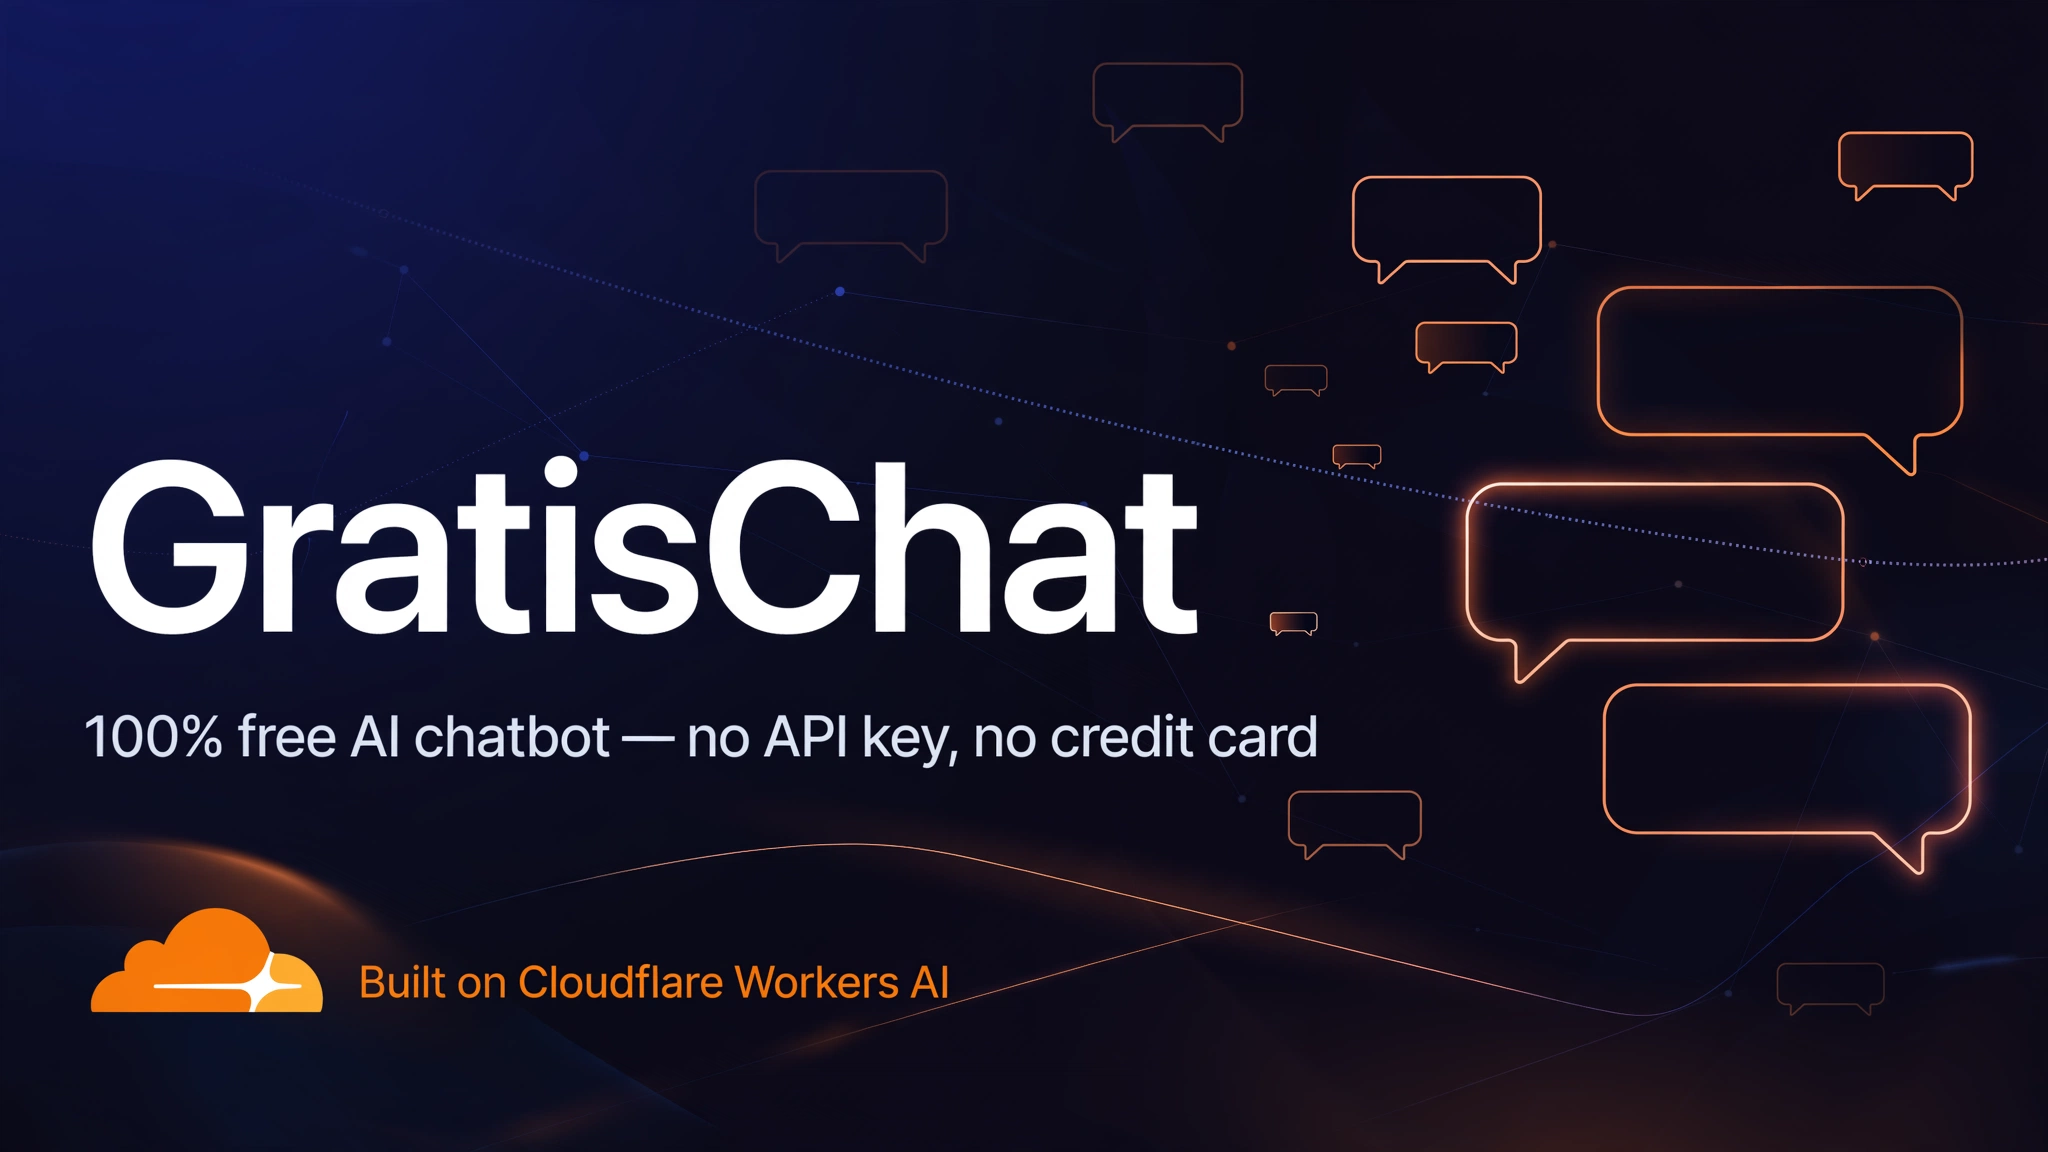
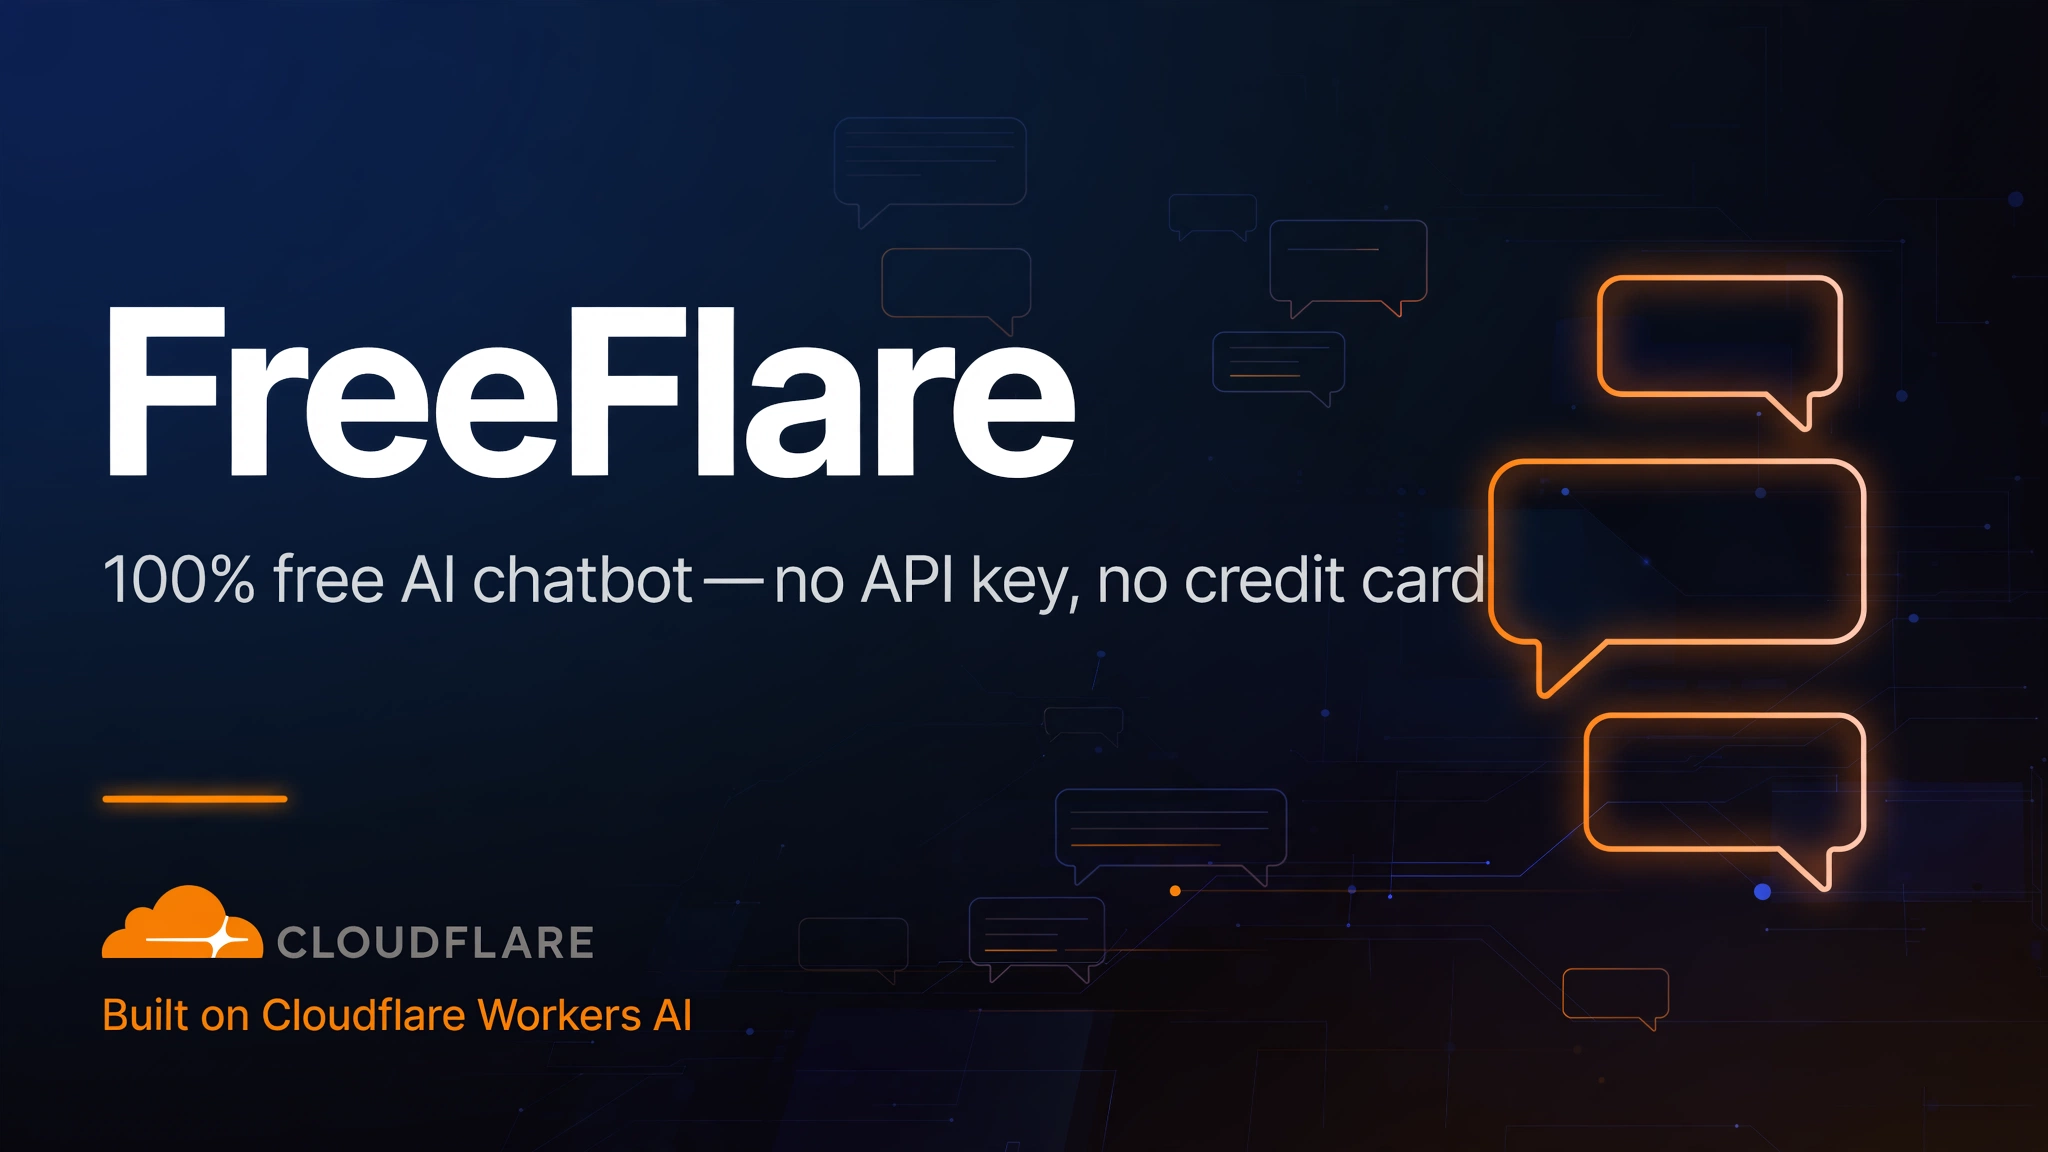
rename to FreeFlare; live badges; add CONTRIBUTING/SECURITY/CHANGELOG

diff --git a/src/worker.js b/src/worker.js
@@ -1,4 +1,4 @@
-// cf-free-chat worker — 100% free chatbot on Cloudflare Workers AI.
+// freeflare worker — 100% free chatbot on Cloudflare Workers AI.
 // No API keys needed: inference via the env.AI binding.
 // Abuse protection: Cache API burst limiter + D1 daily ledger (optional) +
 // global circuit breaker + optional Turnstile (graceful degrade when unset).
@@ -42,7 +42,7 @@ const unb64url = (s) => atob(s.replace(/-/g, "+").replace(/_/g, "/"));
 
 async function mintSession(env, ip) {
   const exp = Date.now() + 24 * 3600 * 1000;
-  const secret = env.TURNSTILE_SECRET || env.SESSION_SECRET || "cf-free-chat-dev";
+  const secret = env.TURNSTILE_SECRET || env.SESSION_SECRET || "freeflare-dev";
   const sig = await hmacSign(secret, `${ip}.${exp}`);
   return b64url(`${exp}.${sig}`);
 }
@@ -50,7 +50,7 @@ async function validSession(env, token, ip) {
   try {
     const [exp, sig] = unb64url(token).split(".");
     if (Date.now() > parseInt(exp, 10)) return false;
-    const secret = env.TURNSTILE_SECRET || env.SESSION_SECRET || "cf-free-chat-dev";
+    const secret = env.TURNSTILE_SECRET || env.SESSION_SECRET || "freeflare-dev";
     return timingEq(sig, await hmacSign(secret, `${ip}.${exp}`));
   } catch { return false; }
 }
@@ -133,7 +133,7 @@ export default {
     // ---- public config for the frontend ----
     if (path === "/api/config" && req.method === "GET") {
       return json({
-        appName: env.APP_NAME || "GratisChat",
+        appName: env.APP_NAME || "FreeFlare",
         models: MODELS,
         defaultModel: env.DEFAULT_MODEL || MODELS[0].id,
         turnstileSiteKey: env.TURNSTILE_SITE_KEY || null,

diff --git a/public/index.html b/public/index.html
@@ -3,7 +3,7 @@
 <head>
 <meta charset="utf-8">
 <meta name="viewport" content="width=device-width, initial-scale=1, viewport-fit=cover">
-<title>GratisChat — AI gratis, tanpa API key</title>
+<title>FreeFlare — AI gratis, tanpa API key</title>
 <meta name="description" content="Chatbot AI gratis 100% di Cloudflare. Tanpa API key, tanpa kartu kredit.">
 <link rel="stylesheet" href="/styles.css">
 </head>

diff --git a/public/app.js b/public/app.js
@@ -1,4 +1,4 @@
-// GratisChat frontend — vanilla JS, no build, no deps (except optional Turnstile).
+// FreeFlare frontend — vanilla JS, no build, no deps (except optional Turnstile).
 "use strict";
 
 const I18N = {

diff --git a/README.id.md b/README.id.md
@@ -1,19 +1,23 @@
-# GratisChat — chatbot AI 100% gratis di Cloudflare
+# FreeFlare — chatbot AI 100% gratis di Cloudflare
 
-![Banner GratisChat](assets/banner.png)
+![Banner FreeFlare](assets/banner.png)
 
 [🇬🇧 English](README.md) · 🇮🇩 **Indonesia**
 
-[![License: MIT](https://img.shields.io/badge/license-MIT-green)](LICENSE)
-[![Cloudflare Workers](https://img.shields.io/badge/Cloudflare-Workers-F68204?logo=cloudflare&logoColor=white)](https://workers.cloudflare.com/)
-[![Node.js](https://img.shields.io/badge/node-%3E%3D18-339933?logo=node.js&logoColor=white)](https://nodejs.org/)
-[![Dependencies](https://img.shields.io/badge/dependencies-0-blue)]()
-[![Workers AI](https://img.shields.io/badge/AI-Workers_AI-8A2BE2)]()
+[![Stars](https://img.shields.io/github/stars/imkofty/freeflare?style=for-the-badge&logo=github&color=20808D)](https://github.com/imkofty/freeflare/stargazers)
+[![Forks](https://img.shields.io/github/forks/imkofty/freeflare?style=for-the-badge&logo=github&color=4DD0E1)](https://github.com/imkofty/freeflare/network/members)
+[![Issues](https://img.shields.io/github/issues/imkofty/freeflare?style=for-the-badge&logo=github&color=FFB454)](https://github.com/imkofty/freeflare/issues)
+[![License: MIT](https://img.shields.io/github/license/imkofty/freeflare?style=for-the-badge&color=3FB950)](LICENSE)
+
+[![Node.js](https://img.shields.io/badge/node-%3E%3D18-339933?style=for-the-badge&logo=node.js&logoColor=white)](https://nodejs.org/)
+[![Dependencies](https://img.shields.io/badge/dependencies-0-20808D?style=for-the-badge)]()
+[![Cloudflare Workers](https://img.shields.io/badge/Cloudflare-Workers-F68204?style=for-the-badge&logo=cloudflare&logoColor=white)](https://workers.cloudflare.com/)
+[![Workers AI](https://img.shields.io/badge/AI-Workers_AI-8A2BE2?style=for-the-badge)]()
 
 ChatGPT-style web app yang jalan **sepenuhnya di paket gratis Cloudflare**.
 Tanpa API key AI. Tanpa kartu kredit. Satu perintah untuk deploy.
 
-[![Deploy to Cloudflare](https://deploy.workers.cloudflare.com/button)](https://deploy.workers.cloudflare.com/?url=https://github.com/USERNAME/cf-free-chat)
+[![Deploy to Cloudflare](https://deploy.workers.cloudflare.com/button)](https://deploy.workers.cloudflare.com/?url=https://github.com/imkofty/freeflare)
 
 > Ganti `USERNAME` dengan username GitHub kamu setelah fork.
 

diff --git a/README.md b/README.md
@@ -1,19 +1,23 @@
-# GratisChat — 100% free AI chatbot on Cloudflare
+# FreeFlare — 100% free AI chatbot on Cloudflare
 
-![GratisChat banner](assets/banner.png)
+![FreeFlare banner](assets/banner.png)
 
 🇬🇧 **English** · [🇮🇩 Indonesia](README.id.md)
 
-[![License: MIT](https://img.shields.io/badge/license-MIT-green)](LICENSE)
-[![Cloudflare Workers](https://img.shields.io/badge/Cloudflare-Workers-F68204?logo=cloudflare&logoColor=white)](https://workers.cloudflare.com/)
-[![Node.js](https://img.shields.io/badge/node-%3E%3D18-339933?logo=node.js&logoColor=white)](https://nodejs.org/)
-[![Dependencies](https://img.shields.io/badge/dependencies-0-blue)]
-![Workers AI](https://img.shields.io/badge/AI-Workers_AI-8A2BE2)
+[![Stars](https://img.shields.io/github/stars/imkofty/freeflare?style=for-the-badge&logo=github&color=20808D)](https://github.com/imkofty/freeflare/stargazers)
+[![Forks](https://img.shields.io/github/forks/imkofty/freeflare?style=for-the-badge&logo=github&color=4DD0E1)](https://github.com/imkofty/freeflare/network/members)
+[![Issues](https://img.shields.io/github/issues/imkofty/freeflare?style=for-the-badge&logo=github&color=FFB454)](https://github.com/imkofty/freeflare/issues)
+[![License: MIT](https://img.shields.io/github/license/imkofty/freeflare?style=for-the-badge&color=3FB950)](LICENSE)
+
+[![Node.js](https://img.shields.io/badge/node-%3E%3D18-339933?style=for-the-badge&logo=node.js&logoColor=white)](https://nodejs.org/)
+[![Dependencies](https://img.shields.io/badge/dependencies-0-20808D?style=for-the-badge)]()
+[![Cloudflare Workers](https://img.shields.io/badge/Cloudflare-Workers-F68204?style=for-the-badge&logo=cloudflare&logoColor=white)](https://workers.cloudflare.com/)
+[![Workers AI](https://img.shields.io/badge/AI-Workers_AI-8A2BE2?style=for-the-badge)]()
 
 A ChatGPT-style web app that runs **entirely on Cloudflare's free tier**.
 No AI API key. No credit card. One command to deploy.
 
-[![Deploy to Cloudflare](https://deploy.workers.cloudflare.com/button)](https://deploy.workers.cloudflare.com/?url=https://github.com/USERNAME/cf-free-chat)
+[![Deploy to Cloudflare](https://deploy.workers.cloudflare.com/button)](https://deploy.workers.cloudflare.com/?url=https://github.com/imkofty/freeflare)
 
 > Replace `USERNAME` with your GitHub username after forking.
 

diff --git a/CONTRIBUTING.md b/CONTRIBUTING.md
@@ -1,0 +1,34 @@
+# Contributing to FreeFlare
+
+Thanks for wanting to help! A few ground rules:
+
+## How to contribute
+
+1. Fork the repo and create a branch from `main`.
+2. Keep it zero-dependency and 100% free-tier. If your change needs a paid
+   Cloudflare plan, an API key, or `npm install`, it doesn't belong here —
+   open an issue first to discuss.
+3. Match the existing code style: vanilla JS, no build step, comments in English.
+4. Test before you PR:
+   - `node --check src/worker.js && node --check public/app.js`
+   - `bash -n deploy.sh`
+   - `wrangler deploy --dry-run` (optional, needs wrangler)
+5. Update docs if behavior changes — both `README.md` (English) and
+   `README.id.md` (Indonesian) when user-facing text is involved.
+
+## What we're looking for
+
+- New free Workers AI models in the fallback list
+- Better abuse protection that stays free-tier
+- UI polish (mobile-first, no heavy frameworks)
+- More languages for the README (copy the flag-picker pattern at the top)
+
+## What we won't merge
+
+- Anything requiring payment, API keys, or signup beyond a Cloudflare account
+- Minified/vendored third-party code without a clear reason
+- Changes that break the one-command `./deploy.sh` flow
+
+## License
+
+By contributing, you agree your work is released under the MIT License.

diff --git a/SECURITY.md b/SECURITY.md
@@ -1,0 +1,27 @@
+# Security Policy
+
+## Supported versions
+
+FreeFlare is a rolling-release side project. Only the latest `main` is supported.
+
+## Reporting a vulnerability
+
+Open a **private** report via GitHub Security Advisories on this repo
+(`Security` tab → `Report a vulnerability`). Please include:
+
+- What you did, step by step
+- What you expected vs what happened
+- The Worker URL or commit hash, if relevant
+
+We aim to acknowledge within 72 hours. Please don't open a public issue for
+security problems.
+
+## Scope notes
+
+- The usage meter (`/api/usage`) is explicitly an **estimate**, not a security boundary.
+- Rate limits and quotas are abuse *mitigation*, not bulletproof protection —
+  a determined attacker with many IPs can still burn your free Workers AI
+  neurons. For a public deployment under attack, put Cloudflare Turnstile in
+  front (see README) and monitor usage in your Cloudflare dashboard.
+- Never commit API tokens or account IDs. `deploy.sh` reads them from the
+  environment or hidden prompts and never writes them to disk.

diff --git a/CHANGELOG.md b/CHANGELOG.md
@@ -1,0 +1,23 @@
+# Changelog
+
+All notable changes to FreeFlare are documented here.
+Format follows [Keep a Changelog](https://keepachangelog.com/en/1.0.0/).
+
+## [Unreleased]
+
+## [1.0.0] — 2026-10-01
+
+### Added
+- ChatGPT-style web UI (mobile-first, dark), bilingual ID/EN with auto-detect
+- 7 free Workers AI models with in-worker fallback chain
+- Streaming responses (SSE), Markdown rendering, code copy button
+- localStorage history, Markdown export, configurable system prompt
+- `./deploy.sh` one-command deploy: laptop (OAuth) or VPS (API token) path
+- Abuse protection: Cache API burst limiter + D1 daily quotas + global circuit breaker
+- Optional Cloudflare Turnstile with 24h IP-bound HMAC session
+- `/api/usage` estimate meter (clearly labeled, not official Cloudflare numbers)
+- Bilingual docs: README + LIMITS in English and Indonesian
+- Repo polish: banner, live badges, CONTRIBUTING / SECURITY / CHANGELOG
+
+[Unreleased]: https://github.com/imkofty/freeflare/compare/v1.0.0...HEAD
+[1.0.0]: https://github.com/imkofty/freeflare/releases/tag/v1.0.0
